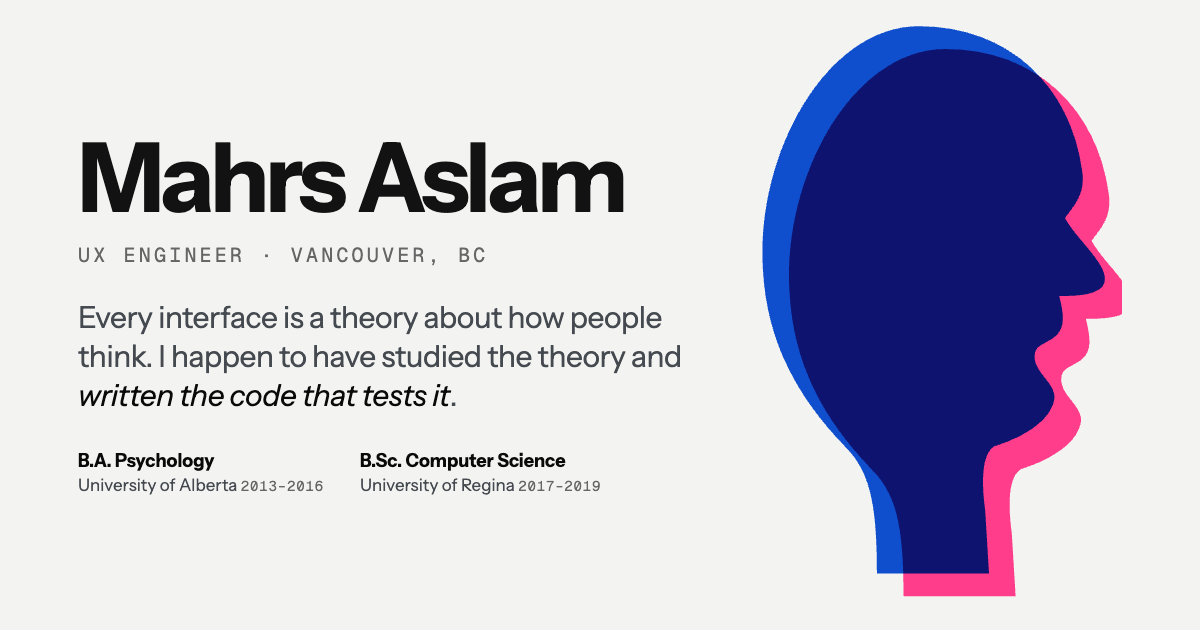
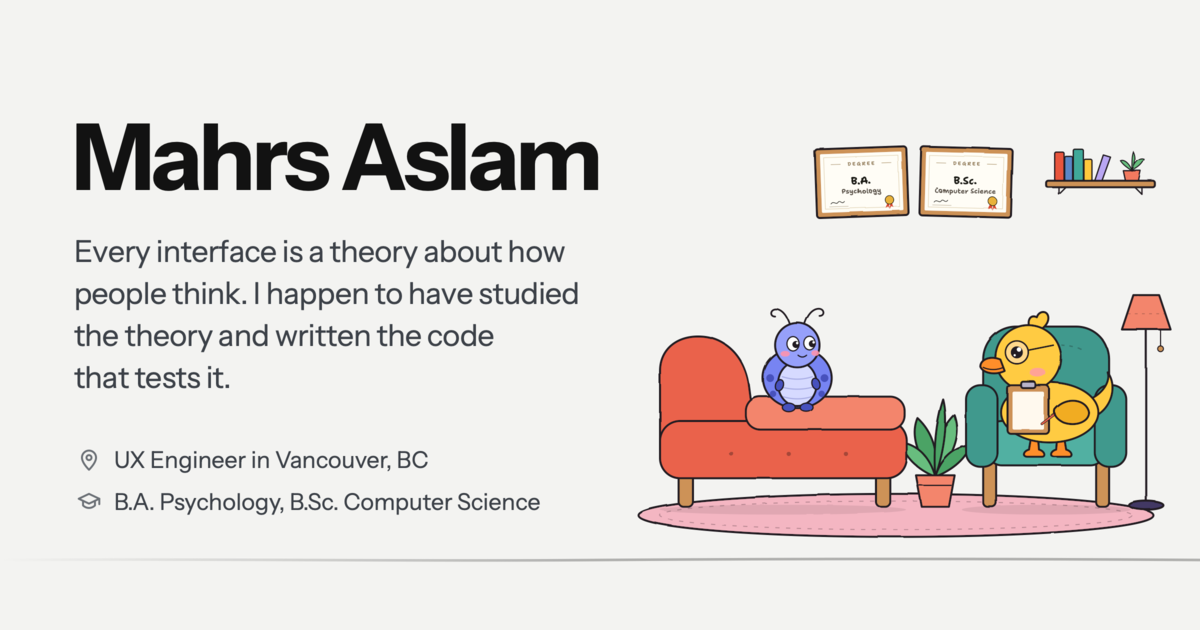
link previews, share tags and figma card fix

diff --git a/index.html b/index.html
@@ -6,7 +6,7 @@
     <title>Mahrs Aslam — UX Engineer</title>
     <meta
       name="description"
-      content="Mahrs Aslam is a UX Engineer in Vancouver with a psychology and computer science background. I build design systems, Figma plugins and iOS apps, and I use AI to ship them faster."
+      content="Mahrs Aslam, UX engineer in Vancouver, trained in psychology before computer science: user research, product design and front-end engineering, down to the design system."
     />
     <meta name="author" content="Mahrs Aslam" />
     <meta property="og:title" content="Mahrs Aslam — UX Engineer" />
@@ -15,9 +15,14 @@
       content="Every interface is a theory about how people think. I happen to have studied the theory and written the code that tests it."
     />
     <meta property="og:type" content="website" />
-    <meta property="og:image" content="https://mahrsbar.github.io/portfolio/assets/og.png" />
+    <meta property="og:site_name" content="Mahrs Aslam" />
+    <meta property="og:image" content="https://mahrsbar.github.io/portfolio/assets/og.png?v=20261026" />
+    <meta property="og:image:width" content="1200" />
+    <meta property="og:image:height" content="630" />
+    <meta property="og:image:alt" content="Mahrs Aslam, UX Engineer. A rubber duck therapist in glasses takes notes while a blue beetle talks on the couch." />
     <meta property="og:url" content="https://mahrsbar.github.io/portfolio/" />
     <meta name="twitter:card" content="summary_large_image" />
+    <meta name="twitter:image" content="https://mahrsbar.github.io/portfolio/assets/og.png?v=20261026" />
     <link rel="icon" href="assets/favicon.svg" type="image/svg+xml" />
     <link rel="preconnect" href="https://fonts.googleapis.com" />
     <link rel="preconnect" href="https://fonts.gstatic.com" crossorigin />
@@ -25,7 +30,7 @@
       rel="stylesheet"
       href="https://fonts.googleapis.com/css2?family=Instrument+Sans:ital,wdth,wght@0,75..100,400..700;1,75..100,400..700&amp;family=Geist+Mono:wght@400..600&amp;display=swap"
     />
-    <link rel="stylesheet" href="css/style.css?v=20261026j" />
+    <link rel="stylesheet" href="css/style.css?v=20261026k" />
     <script>
       try {
         var t = localStorage.getItem("mahrs-theme");

diff --git a/work/design-system.html b/work/design-system.html
@@ -8,6 +8,16 @@
       name="description"
       content="How I took a design system that only existed in Figma to a React + MUI component library: cleaning the source, a generated first version that turned out hollow, and a theme-first rebuild that styles 66 MUI components from design tokens."
     />
+    <meta property="og:type" content="article" />
+    <meta property="og:site_name" content="Mahrs Aslam" />
+    <meta property="og:title" content="AI built our component library in days. It didn't work. — Mahrs Aslam" />
+    <meta property="og:description" content="How I took a design system that only existed in Figma to a React + MUI component library: cleaning the source, a generated first version that turned out hollow, and a theme-first rebuild that styles 66 MUI components from design tokens." />
+    <meta property="og:url" content="https://mahrsbar.github.io/portfolio/work/design-system.html" />
+    <meta property="og:image" content="https://mahrsbar.github.io/portfolio/assets/og.png?v=20261026" />
+    <meta property="og:image:width" content="1200" />
+    <meta property="og:image:height" content="630" />
+    <meta property="og:image:alt" content="Mahrs Aslam, UX Engineer. A rubber duck therapist in glasses takes notes while a blue beetle talks on the couch." />
+    <meta name="twitter:card" content="summary_large_image" />
     <link rel="icon" href="../assets/favicon.svg" type="image/svg+xml" />
     <link rel="preconnect" href="https://fonts.googleapis.com" />
     <link rel="preconnect" href="https://fonts.gstatic.com" crossorigin />
@@ -15,7 +25,7 @@
       rel="stylesheet"
       href="https://fonts.googleapis.com/css2?family=Instrument+Sans:ital,wdth,wght@0,75..100,400..700;1,75..100,400..700&amp;family=Geist+Mono:wght@400..600&amp;display=swap"
     />
-    <link rel="stylesheet" href="../css/style.css?v=20261026j" />
+    <link rel="stylesheet" href="../css/style.css?v=20261026k" />
     <link rel="stylesheet" href="../css/accents.css?v=20261026i" />
     <script>
       try {

diff --git a/about.html b/about.html
@@ -6,8 +6,18 @@
     <title>About — Mahrs Aslam</title>
     <meta
       name="description"
-      content="Mahrs Aslam: UX Engineer with degrees in psychology and computer science, based in Vancouver. Background, skills, and how the two disciplines shape the work."
+      content="UX engineer in Vancouver, trained in psychology before computer science. I research how people work, shape the product, and build it, down to the design system."
     />
+    <meta property="og:type" content="website" />
+    <meta property="og:site_name" content="Mahrs Aslam" />
+    <meta property="og:title" content="About — Mahrs Aslam" />
+    <meta property="og:description" content="UX engineer in Vancouver, trained in psychology before computer science. I research how people work, shape the product, and build it, down to the design system." />
+    <meta property="og:url" content="https://mahrsbar.github.io/portfolio/about.html" />
+    <meta property="og:image" content="https://mahrsbar.github.io/portfolio/assets/og.png?v=20261026" />
+    <meta property="og:image:width" content="1200" />
+    <meta property="og:image:height" content="630" />
+    <meta property="og:image:alt" content="Mahrs Aslam, UX Engineer. A rubber duck therapist in glasses takes notes while a blue beetle talks on the couch." />
+    <meta name="twitter:card" content="summary_large_image" />
     <link rel="icon" href="assets/favicon.svg" type="image/svg+xml" />
     <link rel="preconnect" href="https://fonts.googleapis.com" />
     <link rel="preconnect" href="https://fonts.gstatic.com" crossorigin />
@@ -15,7 +25,7 @@
       rel="stylesheet"
       href="https://fonts.googleapis.com/css2?family=Instrument+Sans:ital,wdth,wght@0,75..100,400..700;1,75..100,400..700&amp;family=Geist+Mono:wght@400..600&amp;display=swap"
     />
-    <link rel="stylesheet" href="css/style.css?v=20261026j" />
+    <link rel="stylesheet" href="css/style.css?v=20261026k" />
     <script>
       try {
         var t = localStorage.getItem("mahrs-theme");

diff --git a/work/loafmode.html b/work/loafmode.html
@@ -8,6 +8,16 @@
       name="description"
       content="LoafMode, a calm iPhone app for scrolling less, built with Claude Code and live on the App Store. Every feature comes from behaviour research instead of streaks, points and penalties."
     />
+    <meta property="og:type" content="article" />
+    <meta property="og:site_name" content="Mahrs Aslam" />
+    <meta property="og:title" content="Screen-time apps gamify the habit they fix. I built one that doesn't. — Mahrs Aslam" />
+    <meta property="og:description" content="LoafMode, a calm iPhone app for scrolling less, built with Claude Code and live on the App Store. Every feature comes from behaviour research instead of streaks, points and penalties." />
+    <meta property="og:url" content="https://mahrsbar.github.io/portfolio/work/loafmode.html" />
+    <meta property="og:image" content="https://mahrsbar.github.io/portfolio/assets/og.png?v=20261026" />
+    <meta property="og:image:width" content="1200" />
+    <meta property="og:image:height" content="630" />
+    <meta property="og:image:alt" content="Mahrs Aslam, UX Engineer. A rubber duck therapist in glasses takes notes while a blue beetle talks on the couch." />
+    <meta name="twitter:card" content="summary_large_image" />
     <link rel="icon" href="../assets/favicon.svg" type="image/svg+xml" />
     <link rel="preconnect" href="https://fonts.googleapis.com" />
     <link rel="preconnect" href="https://fonts.gstatic.com" crossorigin />
@@ -15,7 +25,7 @@
       rel="stylesheet"
       href="https://fonts.googleapis.com/css2?family=Instrument+Sans:ital,wdth,wght@0,75..100,400..700;1,75..100,400..700&amp;family=Geist+Mono:wght@400..600&amp;display=swap"
     />
-    <link rel="stylesheet" href="../css/style.css?v=20261026j" />
+    <link rel="stylesheet" href="../css/style.css?v=20261026k" />
     <link rel="stylesheet" href="../css/accents.css?v=20261026i" />
     <script>
       try {

diff --git a/work/regina-rentables.html b/work/regina-rentables.html
@@ -8,6 +8,16 @@
       name="description"
       content="A peer-to-peer sports equipment rental site for Regina, built in Django with a three-person team: competitive analysis, three user roles, admin approval, and an observer-pattern subscribe flow."
     />
+    <meta property="og:type" content="article" />
+    <meta property="og:site_name" content="Mahrs Aslam" />
+    <meta property="og:title" content="Regina's Recreational Rentables — Mahrs Aslam" />
+    <meta property="og:description" content="A peer-to-peer sports equipment rental site for Regina, built in Django with a three-person team: competitive analysis, three user roles, admin approval, and an observer-pattern subscribe flow." />
+    <meta property="og:url" content="https://mahrsbar.github.io/portfolio/work/regina-rentables.html" />
+    <meta property="og:image" content="https://mahrsbar.github.io/portfolio/assets/og.png?v=20261026" />
+    <meta property="og:image:width" content="1200" />
+    <meta property="og:image:height" content="630" />
+    <meta property="og:image:alt" content="Mahrs Aslam, UX Engineer. A rubber duck therapist in glasses takes notes while a blue beetle talks on the couch." />
+    <meta name="twitter:card" content="summary_large_image" />
     <link rel="icon" href="../assets/favicon.svg" type="image/svg+xml" />
     <link rel="preconnect" href="https://fonts.googleapis.com" />
     <link rel="preconnect" href="https://fonts.gstatic.com" crossorigin />
@@ -15,7 +25,7 @@
       rel="stylesheet"
       href="https://fonts.googleapis.com/css2?family=Instrument+Sans:ital,wdth,wght@0,75..100,400..700;1,75..100,400..700&amp;family=Geist+Mono:wght@400..600&amp;display=swap"
     />
-    <link rel="stylesheet" href="../css/style.css?v=20261026j" />
+    <link rel="stylesheet" href="../css/style.css?v=20261026k" />
     <link rel="stylesheet" href="../css/accents.css?v=20261026i" />
     <script>
       try {

diff --git a/work/smash-forum.html b/work/smash-forum.html
@@ -8,6 +8,16 @@
       name="description"
       content="A PHP and MySQL social forum built by a five-person student team: posts, votes, reposts, reporting, and an admin moderation flow. I owned requirements, use cases, software qualities, and the report."
     />
+    <meta property="og:type" content="article" />
+    <meta property="og:site_name" content="Mahrs Aslam" />
+    <meta property="og:title" content="SMASH forum — Mahrs Aslam" />
+    <meta property="og:description" content="A PHP and MySQL social forum built by a five-person student team: posts, votes, reposts, reporting, and an admin moderation flow. I owned requirements, use cases, software qualities, and the report." />
+    <meta property="og:url" content="https://mahrsbar.github.io/portfolio/work/smash-forum.html" />
+    <meta property="og:image" content="https://mahrsbar.github.io/portfolio/assets/og.png?v=20261026" />
+    <meta property="og:image:width" content="1200" />
+    <meta property="og:image:height" content="630" />
+    <meta property="og:image:alt" content="Mahrs Aslam, UX Engineer. A rubber duck therapist in glasses takes notes while a blue beetle talks on the couch." />
+    <meta name="twitter:card" content="summary_large_image" />
     <link rel="icon" href="../assets/favicon.svg" type="image/svg+xml" />
     <link rel="preconnect" href="https://fonts.googleapis.com" />
     <link rel="preconnect" href="https://fonts.gstatic.com" crossorigin />
@@ -15,7 +25,7 @@
       rel="stylesheet"
       href="https://fonts.googleapis.com/css2?family=Instrument+Sans:ital,wdth,wght@0,75..100,400..700;1,75..100,400..700&amp;family=Geist+Mono:wght@400..600&amp;display=swap"
     />
-    <link rel="stylesheet" href="../css/style.css?v=20261026j" />
+    <link rel="stylesheet" href="../css/style.css?v=20261026k" />
     <link rel="stylesheet" href="../css/accents.css?v=20261026i" />
     <script>
       try {

diff --git a/work/onecomply.html b/work/onecomply.html
@@ -8,6 +8,16 @@
       name="description"
       content="Turning one endless licence application into six steps people finish, and turning a queue of column requests into custom fields, on a licensing-compliance platform."
     />
+    <meta property="og:type" content="article" />
+    <meta property="og:site_name" content="Mahrs Aslam" />
+    <meta property="og:title" content="Nobody finishes a form they can't see the end of — Mahrs Aslam" />
+    <meta property="og:description" content="Turning one endless licence application into six steps people finish, and turning a queue of column requests into custom fields, on a licensing-compliance platform." />
+    <meta property="og:url" content="https://mahrsbar.github.io/portfolio/work/onecomply.html" />
+    <meta property="og:image" content="https://mahrsbar.github.io/portfolio/assets/og.png?v=20261026" />
+    <meta property="og:image:width" content="1200" />
+    <meta property="og:image:height" content="630" />
+    <meta property="og:image:alt" content="Mahrs Aslam, UX Engineer. A rubber duck therapist in glasses takes notes while a blue beetle talks on the couch." />
+    <meta name="twitter:card" content="summary_large_image" />
     <link rel="icon" href="../assets/favicon.svg" type="image/svg+xml" />
     <link rel="preconnect" href="https://fonts.googleapis.com" />
     <link rel="preconnect" href="https://fonts.gstatic.com" crossorigin />
@@ -15,7 +25,7 @@
       rel="stylesheet"
       href="https://fonts.googleapis.com/css2?family=Instrument+Sans:ital,wdth,wght@0,75..100,400..700;1,75..100,400..700&amp;family=Geist+Mono:wght@400..600&amp;display=swap"
     />
-    <link rel="stylesheet" href="../css/style.css?v=20261026j" />
+    <link rel="stylesheet" href="../css/style.css?v=20261026k" />
     <link rel="stylesheet" href="../css/accents.css?v=20261026i" />
     <script>
       try {

diff --git a/work/craigslist-redesign.html b/work/craigslist-redesign.html
@@ -8,6 +8,16 @@
       name="description"
       content="A human-computer interaction course project: activity analysis, empathy maps, prioritised requirements, and two competing design metaphors for redesigning Craigslist."
     />
+    <meta property="og:type" content="article" />
+    <meta property="og:site_name" content="Mahrs Aslam" />
+    <meta property="og:title" content="Craigslist redesign — Mahrs Aslam" />
+    <meta property="og:description" content="A human-computer interaction course project: activity analysis, empathy maps, prioritised requirements, and two competing design metaphors for redesigning Craigslist." />
+    <meta property="og:url" content="https://mahrsbar.github.io/portfolio/work/craigslist-redesign.html" />
+    <meta property="og:image" content="https://mahrsbar.github.io/portfolio/assets/og.png?v=20261026" />
+    <meta property="og:image:width" content="1200" />
+    <meta property="og:image:height" content="630" />
+    <meta property="og:image:alt" content="Mahrs Aslam, UX Engineer. A rubber duck therapist in glasses takes notes while a blue beetle talks on the couch." />
+    <meta name="twitter:card" content="summary_large_image" />
     <link rel="icon" href="../assets/favicon.svg" type="image/svg+xml" />
     <link rel="preconnect" href="https://fonts.googleapis.com" />
     <link rel="preconnect" href="https://fonts.gstatic.com" crossorigin />
@@ -15,7 +25,7 @@
       rel="stylesheet"
       href="https://fonts.googleapis.com/css2?family=Instrument+Sans:ital,wdth,wght@0,75..100,400..700;1,75..100,400..700&amp;family=Geist+Mono:wght@400..600&amp;display=swap"
     />
-    <link rel="stylesheet" href="../css/style.css?v=20261026j" />
+    <link rel="stylesheet" href="../css/style.css?v=20261026k" />
     <link rel="stylesheet" href="../css/accents.css?v=20261026i" />
     <script>
       try {

diff --git a/remnant.html b/remnant.html
@@ -8,6 +8,16 @@
       name="description"
       content="Redesigning a fantasy-anime game studio's website: research, brand voice, wireframes, hi-fi prototypes, and the front end that shipped it."
     />
+    <meta property="og:type" content="article" />
+    <meta property="og:site_name" content="Mahrs Aslam" />
+    <meta property="og:title" content="Remnant Labs — Mahrs Aslam" />
+    <meta property="og:description" content="Redesigning a fantasy-anime game studio's website: research, brand voice, wireframes, hi-fi prototypes, and the front end that shipped it." />
+    <meta property="og:url" content="https://mahrsbar.github.io/portfolio/remnant.html" />
+    <meta property="og:image" content="https://mahrsbar.github.io/portfolio/assets/og.png?v=20261026" />
+    <meta property="og:image:width" content="1200" />
+    <meta property="og:image:height" content="630" />
+    <meta property="og:image:alt" content="Mahrs Aslam, UX Engineer. A rubber duck therapist in glasses takes notes while a blue beetle talks on the couch." />
+    <meta name="twitter:card" content="summary_large_image" />
     <link rel="icon" href="assets/favicon.svg" type="image/svg+xml" />
     <link rel="preconnect" href="https://fonts.googleapis.com" />
     <link rel="preconnect" href="https://fonts.gstatic.com" crossorigin />
@@ -15,7 +25,7 @@
       rel="stylesheet"
       href="https://fonts.googleapis.com/css2?family=Instrument+Sans:ital,wdth,wght@0,75..100,400..700;1,75..100,400..700&amp;family=Geist+Mono:wght@400..600&amp;display=swap"
     />
-    <link rel="stylesheet" href="css/style.css?v=20261026j" />
+    <link rel="stylesheet" href="css/style.css?v=20261026k" />
     <link rel="stylesheet" href="css/accents.css?v=20261026i" />
     <script>
       try {

diff --git a/amplify.html b/amplify.html
@@ -8,6 +8,16 @@
       name="description"
       content="Leading development of Amplify, an open-source civic engagement platform used by advocacy non-profits."
     />
+    <meta property="og:type" content="article" />
+    <meta property="og:site_name" content="Mahrs Aslam" />
+    <meta property="og:title" content="ProgramEquity — Mahrs Aslam" />
+    <meta property="og:description" content="Leading development of Amplify, an open-source civic engagement platform used by advocacy non-profits." />
+    <meta property="og:url" content="https://mahrsbar.github.io/portfolio/amplify.html" />
+    <meta property="og:image" content="https://mahrsbar.github.io/portfolio/assets/og.png?v=20261026" />
+    <meta property="og:image:width" content="1200" />
+    <meta property="og:image:height" content="630" />
+    <meta property="og:image:alt" content="Mahrs Aslam, UX Engineer. A rubber duck therapist in glasses takes notes while a blue beetle talks on the couch." />
+    <meta name="twitter:card" content="summary_large_image" />
     <link rel="icon" href="assets/favicon.svg" type="image/svg+xml" />
     <link rel="preconnect" href="https://fonts.googleapis.com" />
     <link rel="preconnect" href="https://fonts.gstatic.com" crossorigin />
@@ -15,7 +25,7 @@
       rel="stylesheet"
       href="https://fonts.googleapis.com/css2?family=Instrument+Sans:ital,wdth,wght@0,75..100,400..700;1,75..100,400..700&amp;family=Geist+Mono:wght@400..600&amp;display=swap"
     />
-    <link rel="stylesheet" href="css/style.css?v=20261026j" />
+    <link rel="stylesheet" href="css/style.css?v=20261026k" />
     <link rel="stylesheet" href="css/accents.css?v=20261026i" />
     <script>
       try {

diff --git a/css/style.css b/css/style.css
@@ -4892,11 +4892,22 @@ html .case-intro h1 { font-size: clamp(1.75rem, 3vw, 2.4rem); max-width: 24ch; }
 }
 
 /*Dark under the title bar so the rounded corners don't show a white fringe. */
-.pcard-stack .win-back { background: linear-gradient(2C2C2C_1 0 26px, #fff 26px); }
-.win-bar-dark { background: 2C2C2C_1; border-bottom-color: rgba(255, 255, 255, 0.06); }
+.pcard-stack .win-back { background: linear-gradient(#2c2c2c 0 26px, #fff 26px); }
+.win-bar-dark { background: #2c2c2c; border-bottom-color: rgba(255, 255, 255, 0.06); }
 .win-bar-dark i { background: rgba(255, 255, 255, 0.22); }
 .win-bar-dark b { color: rgba(255, 255, 255, 0.75); }
 
 /* The Figma screenshot has a few light pixels in its top-left corner; nudge it
    past the window edge so they're hidden. */
 .pcard-stack .win-back img { margin: 0px 0 0 0px; width: calc(100% + 3px); }
+
+/* The Figma screenshot fills its whole window, cropped from the top left. On
+   phones the card is taller than the screenshot, and the window's white
+   background showed underneath it. */
+.pcard-stack .win-back img {
+  flex: 1 1 auto;
+  min-height: 0;
+  height: 100%;
+  object-fit: cover;
+  object-position: left top;
+}

diff --git a/404.html b/404.html
@@ -7,7 +7,7 @@
     <meta name="robots" content="noindex" />
     <link rel="icon" href="/portfolio/assets/favicon.svg" type="image/svg+xml" />
     <link rel="stylesheet" href="https://fonts.googleapis.com/css2?family=Instrument+Sans:ital,wdth,wght@0,75..100,400..700;1,75..100,400..700&amp;family=Geist+Mono:wght@400..600&amp;display=swap" />
-    <link rel="stylesheet" href="/portfolio/css/style.css?v=20261026j" />
+    <link rel="stylesheet" href="/portfolio/css/style.css?v=20261026k" />
     <script>
       try {
         var t = localStorage.getItem("mahrs-theme");
